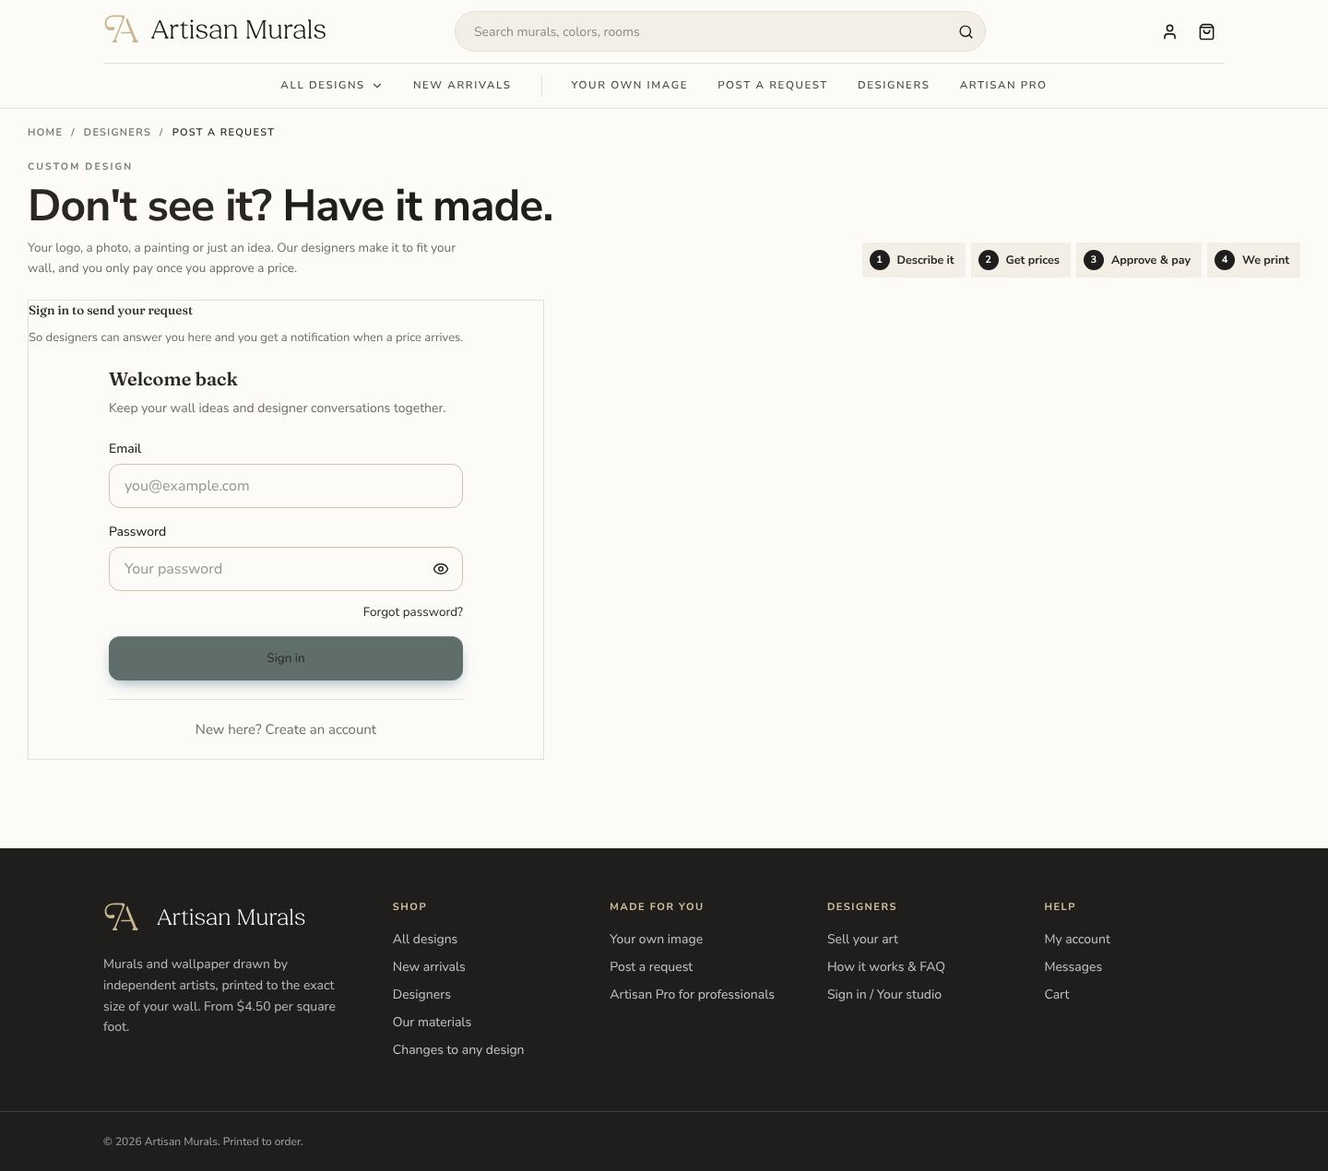
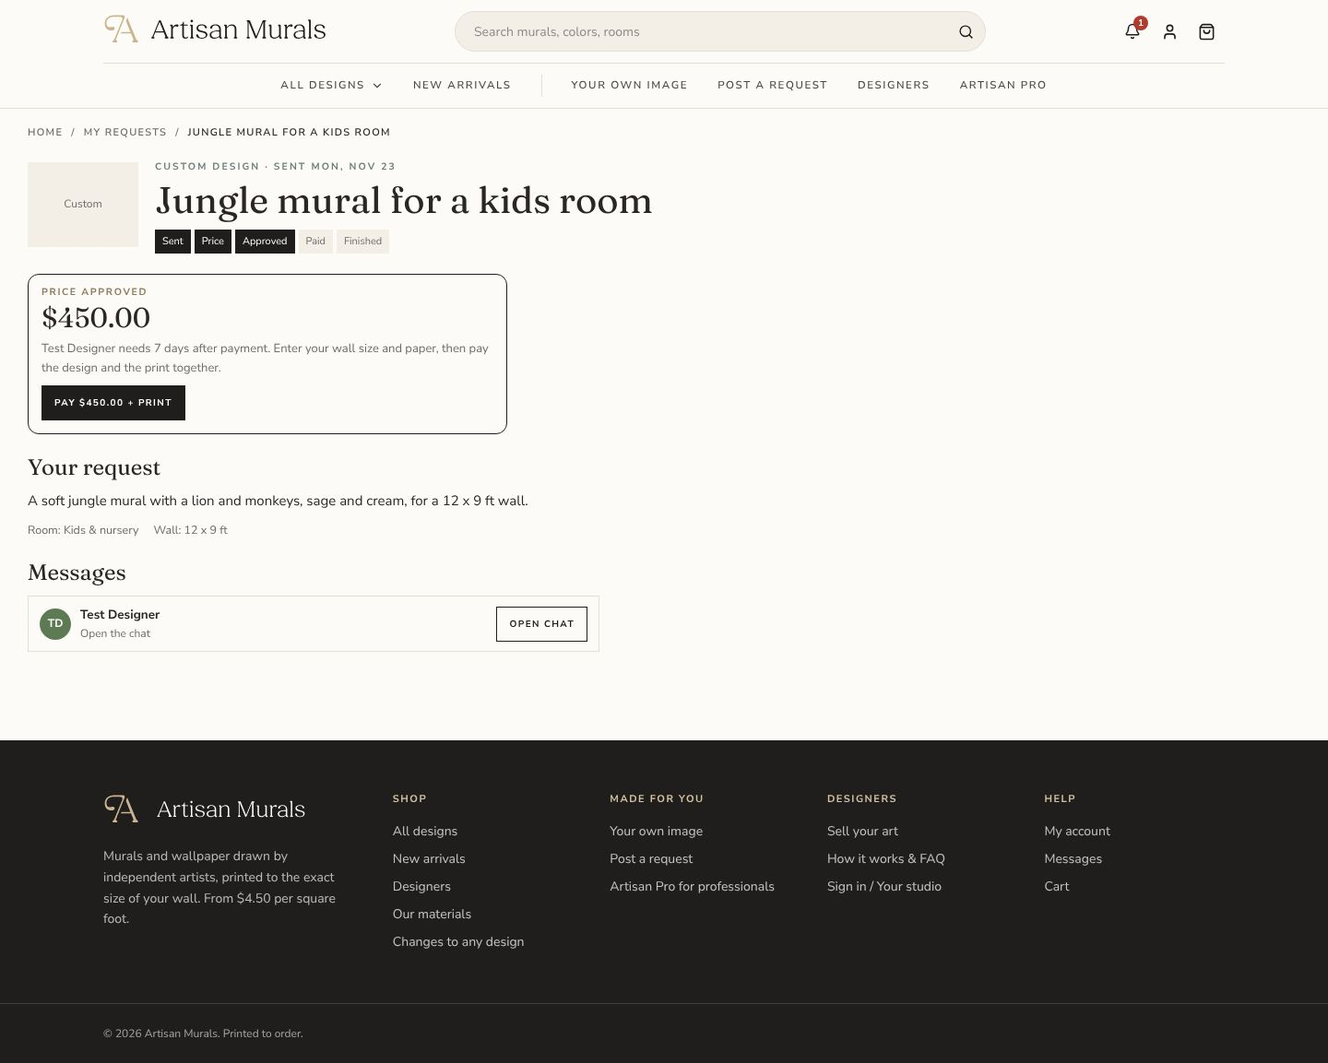
Gallery: designers, requests, pay, checkout, compare, how it works

diff --git a/real/index.html b/real/index.html
@@ -2,4 +2,4 @@
 <style>:root{--ink:#201D1D;--soft:#F3EFE7;--line:#E4DED3}body{margin:0;font:15px/1.5 system-ui,sans-serif;color:var(--ink);background:#FCFBF8}header{padding:28px 20px 10px;max-width:1300px;margin:auto}h1{font:400 34px/1.1 Georgia,serif;margin:0 0 6px}p{margin:0;color:#6F6A66}nav{display:flex;flex-wrap:wrap;gap:8px;margin-top:14px}nav a{border:1px solid var(--line);border-radius:999px;padding:6px 12px;color:var(--ink);text-decoration:none;font-size:13px;background:#fff}
 section{max-width:1300px;margin:26px auto;padding:0 20px}h2{font:400 24px Georgia,serif;margin:0 0 10px}.pair{display:grid;grid-template-columns:1fr 300px;gap:18px;align-items:start}figure{margin:0}figcaption{font-size:12px;font-weight:700;letter-spacing:.1em;text-transform:uppercase;color:#6F6A66;margin-bottom:6px}img{width:100%;border:1px solid var(--line);border-radius:8px;display:block}.ph img{max-height:none}
 @media(max-width:760px){.pair{grid-template-columns:1fr}.ph{max-width:320px}}</style></head><body>
-<header><h1>The new real site · progress</h1><p>Screenshots of the real website (not the preview), with real designs from the database. Tap any picture to open it full size.</p><nav><a href="#home">Homepage</a><a href="#shop">Shop with filters</a><a href="#design">Design page</a><a href="#size">Wall size & order</a><a href="#own">Your own image</a><a href="#request">Post a request</a><a href="#changes">Changes to a design</a><a href="#materials">Our materials</a><a href="#pro">Artisan Pro</a><a href="#sell">Sell your art</a><a href="#messages">Messages (chat)</a><a href="#account">My account</a><a href="#pro-apply">Artisan Pro application</a><a href="#designer-apply">Designer application</a><a href="#sign-in">Sign in</a><a href="#studio-upload">Designer studio · add a design (Drive picker)</a><a href="#studio-details">Designer studio · design details & my designs</a><a href="#bo-designs">Back office · all designs</a><a href="#bo-homepage">Back office · homepage & banners editor</a><a href="#bo-menu">Back office · menu pictures</a><a href="#bo-prices">Back office · prices & materials</a><a href="#bo-orders">Back office · orders</a><a href="#chat-price">Chat · price offer → approve → pay</a></nav></header><section id="home"><h2>Homepage</h2><div class="pair"><figure><figcaption>Computer</figcaption><a href="home-computer.jpg"><img src="home-computer.jpg" alt="Homepage on a computer" loading="lazy"></a></figure><figure class="ph"><figcaption>Phone</figcaption><a href="home-phone.jpg"><img src="home-phone.jpg" alt="Homepage on a phone" loading="lazy"></a></figure></div></section><section id="shop"><h2>Shop with filters</h2><div class="pair"><figure><figcaption>Computer</figcaption><a href="shop-computer.jpg"><img src="shop-computer.jpg" alt="Shop with filters on a computer" loading="lazy"></a></figure><figure class="ph"><figcaption>Phone</figcaption><a href="shop-phone.jpg"><img src="shop-phone.jpg" alt="Shop with filters on a phone" loading="lazy"></a></figure></div></section><section id="design"><h2>Design page</h2><div class="pair"><figure><figcaption>Computer</figcaption><a href="design-computer.jpg"><img src="design-computer.jpg" alt="Design page on a computer" loading="lazy"></a></figure><figure class="ph"><figcaption>Phone</figcaption><a href="design-phone.jpg"><img src="design-phone.jpg" alt="Design page on a phone" loading="lazy"></a></figure></div></section><section id="size"><h2>Wall size & order</h2><div class="pair"><figure><figcaption>Computer</figcaption><a href="size-computer.jpg"><img src="size-computer.jpg" alt="Wall size & order on a computer" loading="lazy"></a></figure><figure class="ph"><figcaption>Phone</figcaption><a href="size-phone.jpg"><img src="size-phone.jpg" alt="Wall size & order on a phone" loading="lazy"></a></figure></div></section><section id="own"><h2>Your own image</h2><div class="pair"><figure><figcaption>Computer</figcaption><a href="own-computer.jpg"><img src="own-computer.jpg" alt="Your own image on a computer" loading="lazy"></a></figure><figure class="ph"><figcaption>Phone</figcaption><a href="own-phone.jpg"><img src="own-phone.jpg" alt="Your own image on a phone" loading="lazy"></a></figure></div></section><section id="request"><h2>Post a request</h2><div class="pair"><figure><figcaption>Computer</figcaption><a href="request-computer.jpg"><img src="request-computer.jpg" alt="Post a request on a computer" loading="lazy"></a></figure><figure class="ph"><figcaption>Phone</figcaption><a href="request-phone.jpg"><img src="request-phone.jpg" alt="Post a request on a phone" loading="lazy"></a></figure></div></section><section id="changes"><h2>Changes to a design</h2><div class="pair"><figure><figcaption>Computer</figcaption><a href="changes-computer.jpg"><img src="changes-computer.jpg" alt="Changes to a design on a computer" loading="lazy"></a></figure><figure class="ph"><figcaption>Phone</figcaption><a href="changes-phone.jpg"><img src="changes-phone.jpg" alt="Changes to a design on a phone" loading="lazy"></a></figure></div></section><section id="materials"><h2>Our materials</h2><div class="pair"><figure><figcaption>Computer</figcaption><a href="materials-computer.jpg"><img src="materials-computer.jpg" alt="Our materials on a computer" loading="lazy"></a></figure><figure class="ph"><figcaption>Phone</figcaption><a href="materials-phone.jpg"><img src="materials-phone.jpg" alt="Our materials on a phone" loading="lazy"></a></figure></div></section><section id="pro"><h2>Artisan Pro</h2><div class="pair"><figure><figcaption>Computer</figcaption><a href="pro-computer.jpg"><img src="pro-computer.jpg" alt="Artisan Pro on a computer" loading="lazy"></a></figure><figure class="ph"><figcaption>Phone</figcaption><a href="pro-phone.jpg"><img src="pro-phone.jpg" alt="Artisan Pro on a phone" loading="lazy"></a></figure></div></section><section id="sell"><h2>Sell your art</h2><div class="pair"><figure><figcaption>Computer</figcaption><a href="sell-computer.jpg"><img src="sell-computer.jpg" alt="Sell your art on a computer" loading="lazy"></a></figure><figure class="ph"><figcaption>Phone</figcaption><a href="sell-phone.jpg"><img src="sell-phone.jpg" alt="Sell your art on a phone" loading="lazy"></a></figure></div></section><section id="messages"><h2>Messages (chat)</h2><div class="pair"><figure><figcaption>Computer</figcaption><a href="messages-computer.jpg"><img src="messages-computer.jpg" alt="Messages (chat) on a computer" loading="lazy"></a></figure><figure class="ph"><figcaption>Phone</figcaption><a href="messages-phone.jpg"><img src="messages-phone.jpg" alt="Messages (chat) on a phone" loading="lazy"></a></figure></div></section><section id="account"><h2>My account</h2><div class="pair"><figure><figcaption>Computer</figcaption><a href="account-computer.jpg"><img src="account-computer.jpg" alt="My account on a computer" loading="lazy"></a></figure><figure class="ph"><figcaption>Phone</figcaption><a href="account-phone.jpg"><img src="account-phone.jpg" alt="My account on a phone" loading="lazy"></a></figure></div></section><section id="pro-apply"><h2>Artisan Pro application</h2><div class="pair"><figure><figcaption>Computer</figcaption><a href="pro-apply-computer.jpg"><img src="pro-apply-computer.jpg" alt="Artisan Pro application on a computer" loading="lazy"></a></figure><figure class="ph"><figcaption>Phone</figcaption><a href="pro-apply-phone.jpg"><img src="pro-apply-phone.jpg" alt="Artisan Pro application on a phone" loading="lazy"></a></figure></div></section><section id="designer-apply"><h2>Designer application</h2><div class="pair"><figure><figcaption>Computer</figcaption><a href="designer-apply-computer.jpg"><img src="designer-apply-computer.jpg" alt="Designer application on a computer" loading="lazy"></a></figure><figure class="ph"><figcaption>Phone</figcaption><a href="designer-apply-phone.jpg"><img src="designer-apply-phone.jpg" alt="Designer application on a phone" loading="lazy"></a></figure></div></section><section id="sign-in"><h2>Sign in</h2><div class="pair"><figure><figcaption>Computer</figcaption><a href="sign-in-computer.jpg"><img src="sign-in-computer.jpg" alt="Sign in on a computer" loading="lazy"></a></figure><figure class="ph"><figcaption>Phone</figcaption><a href="sign-in-phone.jpg"><img src="sign-in-phone.jpg" alt="Sign in on a phone" loading="lazy"></a></figure></div></section><section id="studio-upload"><h2>Designer studio · add a design (Drive picker)</h2><div class="pair"><figure><figcaption>Computer</figcaption><a href="studio-upload-computer.jpg"><img src="studio-upload-computer.jpg" alt="Designer studio · add a design (Drive picker) on a computer" loading="lazy"></a></figure><figure class="ph"><figcaption>Phone</figcaption><a href="studio-upload-phone.jpg"><img src="studio-upload-phone.jpg" alt="Designer studio · add a design (Drive picker) on a phone" loading="lazy"></a></figure></div></section><section id="studio-details"><h2>Designer studio · design details & my designs</h2><div class="pair"><figure><figcaption>Computer</figcaption><a href="studio-details-computer.jpg"><img src="studio-details-computer.jpg" alt="Designer studio · design details & my designs on a computer" loading="lazy"></a></figure><figure class="ph"><figcaption>Phone</figcaption><a href="studio-designs-phone.jpg"><img src="studio-designs-phone.jpg" alt="Designer studio · design details & my designs on a phone" loading="lazy"></a></figure></div></section><section id="bo-designs"><h2>Back office · all designs</h2><div class="pair"><figure><figcaption>Computer</figcaption><a href="bo-designs-computer.jpg"><img src="bo-designs-computer.jpg" alt="Back office · all designs on a computer" loading="lazy"></a></figure><figure class="ph"><figcaption>Phone</figcaption><a href="bo-designs-phone.jpg"><img src="bo-designs-phone.jpg" alt="Back office · all designs on a phone" loading="lazy"></a></figure></div></section><section id="bo-homepage"><h2>Back office · homepage & banners editor</h2><figure><figcaption>Computer</figcaption><a href="bo-homepage-computer.jpg"><img src="bo-homepage-computer.jpg" alt="Back office · homepage & banners editor" loading="lazy"></a></figure></section><section id="bo-menu"><h2>Back office · menu pictures</h2><figure><figcaption>Computer</figcaption><a href="bo-menu-computer.jpg"><img src="bo-menu-computer.jpg" alt="Back office · menu pictures" loading="lazy"></a></figure></section><section id="bo-prices"><h2>Back office · prices & materials</h2><figure><figcaption>Computer</figcaption><a href="bo-prices-computer.jpg"><img src="bo-prices-computer.jpg" alt="Back office · prices & materials" loading="lazy"></a></figure></section><section id="bo-orders"><h2>Back office · orders</h2><figure><figcaption>Computer</figcaption><a href="bo-orders-computer.jpg"><img src="bo-orders-computer.jpg" alt="Back office · orders" loading="lazy"></a></figure></section><section id="chat-price"><h2>Chat · price offer → approve → pay</h2><div class="pair" style="grid-template-columns:1fr 1fr"><figure><figcaption>1 · The designer sent a price</figcaption><a href="chat-price-offer.jpg"><img src="chat-price-offer.jpg" alt="Price offer in the chat" loading="lazy"></a></figure><figure><figcaption>2 · Approved: pay button</figcaption><a href="chat-price-pay.jpg"><img src="chat-price-pay.jpg" alt="Pay button after approving" loading="lazy"></a></figure></div></section></body></html>
+<header><h1>The new real site · progress</h1><p>Screenshots of the real website (not the preview), with real designs from the database. Tap any picture to open it full size.</p><nav><a href="#home">Homepage</a><a href="#shop">Shop with filters</a><a href="#design">Design page</a><a href="#size">Wall size & order</a><a href="#own">Your own image</a><a href="#request">Post a request</a><a href="#changes">Changes to a design</a><a href="#materials">Our materials</a><a href="#pro">Artisan Pro</a><a href="#sell">Sell your art</a><a href="#messages">Messages (chat)</a><a href="#account">My account</a><a href="#pro-apply">Artisan Pro application</a><a href="#designer-apply">Designer application</a><a href="#sign-in">Sign in</a><a href="#studio-upload">Designer studio · add a design (Drive picker)</a><a href="#studio-details">Designer studio · design details & my designs</a><a href="#bo-designs">Back office · all designs</a><a href="#bo-homepage">Back office · homepage & banners editor</a><a href="#bo-menu">Back office · menu pictures</a><a href="#bo-prices">Back office · prices & materials</a><a href="#bo-orders">Back office · orders</a><a href="#chat-price">Chat · price offer → approve → pay</a><a href="#designers">Designers</a><a href="#designer-page">A designer's page</a><a href="#my-requests">My requests</a><a href="#pay">Pay: wall size, paper, payment</a><a href="#checkout">Checkout</a><a href="#compare">Compare</a><a href="#how-it-works">How it works for designers</a></nav></header><section id="home"><h2>Homepage</h2><div class="pair"><figure><figcaption>Computer</figcaption><a href="home-computer.jpg"><img src="home-computer.jpg" alt="Homepage on a computer" loading="lazy"></a></figure><figure class="ph"><figcaption>Phone</figcaption><a href="home-phone.jpg"><img src="home-phone.jpg" alt="Homepage on a phone" loading="lazy"></a></figure></div></section><section id="shop"><h2>Shop with filters</h2><div class="pair"><figure><figcaption>Computer</figcaption><a href="shop-computer.jpg"><img src="shop-computer.jpg" alt="Shop with filters on a computer" loading="lazy"></a></figure><figure class="ph"><figcaption>Phone</figcaption><a href="shop-phone.jpg"><img src="shop-phone.jpg" alt="Shop with filters on a phone" loading="lazy"></a></figure></div></section><section id="design"><h2>Design page</h2><div class="pair"><figure><figcaption>Computer</figcaption><a href="design-computer.jpg"><img src="design-computer.jpg" alt="Design page on a computer" loading="lazy"></a></figure><figure class="ph"><figcaption>Phone</figcaption><a href="design-phone.jpg"><img src="design-phone.jpg" alt="Design page on a phone" loading="lazy"></a></figure></div></section><section id="size"><h2>Wall size & order</h2><div class="pair"><figure><figcaption>Computer</figcaption><a href="size-computer.jpg"><img src="size-computer.jpg" alt="Wall size & order on a computer" loading="lazy"></a></figure><figure class="ph"><figcaption>Phone</figcaption><a href="size-phone.jpg"><img src="size-phone.jpg" alt="Wall size & order on a phone" loading="lazy"></a></figure></div></section><section id="own"><h2>Your own image</h2><div class="pair"><figure><figcaption>Computer</figcaption><a href="own-computer.jpg"><img src="own-computer.jpg" alt="Your own image on a computer" loading="lazy"></a></figure><figure class="ph"><figcaption>Phone</figcaption><a href="own-phone.jpg"><img src="own-phone.jpg" alt="Your own image on a phone" loading="lazy"></a></figure></div></section><section id="request"><h2>Post a request</h2><div class="pair"><figure><figcaption>Computer</figcaption><a href="request-computer.jpg"><img src="request-computer.jpg" alt="Post a request on a computer" loading="lazy"></a></figure><figure class="ph"><figcaption>Phone</figcaption><a href="request-phone.jpg"><img src="request-phone.jpg" alt="Post a request on a phone" loading="lazy"></a></figure></div></section><section id="changes"><h2>Changes to a design</h2><div class="pair"><figure><figcaption>Computer</figcaption><a href="changes-computer.jpg"><img src="changes-computer.jpg" alt="Changes to a design on a computer" loading="lazy"></a></figure><figure class="ph"><figcaption>Phone</figcaption><a href="changes-phone.jpg"><img src="changes-phone.jpg" alt="Changes to a design on a phone" loading="lazy"></a></figure></div></section><section id="materials"><h2>Our materials</h2><div class="pair"><figure><figcaption>Computer</figcaption><a href="materials-computer.jpg"><img src="materials-computer.jpg" alt="Our materials on a computer" loading="lazy"></a></figure><figure class="ph"><figcaption>Phone</figcaption><a href="materials-phone.jpg"><img src="materials-phone.jpg" alt="Our materials on a phone" loading="lazy"></a></figure></div></section><section id="pro"><h2>Artisan Pro</h2><div class="pair"><figure><figcaption>Computer</figcaption><a href="pro-computer.jpg"><img src="pro-computer.jpg" alt="Artisan Pro on a computer" loading="lazy"></a></figure><figure class="ph"><figcaption>Phone</figcaption><a href="pro-phone.jpg"><img src="pro-phone.jpg" alt="Artisan Pro on a phone" loading="lazy"></a></figure></div></section><section id="sell"><h2>Sell your art</h2><div class="pair"><figure><figcaption>Computer</figcaption><a href="sell-computer.jpg"><img src="sell-computer.jpg" alt="Sell your art on a computer" loading="lazy"></a></figure><figure class="ph"><figcaption>Phone</figcaption><a href="sell-phone.jpg"><img src="sell-phone.jpg" alt="Sell your art on a phone" loading="lazy"></a></figure></div></section><section id="messages"><h2>Messages (chat)</h2><div class="pair"><figure><figcaption>Computer</figcaption><a href="messages-computer.jpg"><img src="messages-computer.jpg" alt="Messages (chat) on a computer" loading="lazy"></a></figure><figure class="ph"><figcaption>Phone</figcaption><a href="messages-phone.jpg"><img src="messages-phone.jpg" alt="Messages (chat) on a phone" loading="lazy"></a></figure></div></section><section id="account"><h2>My account</h2><div class="pair"><figure><figcaption>Computer</figcaption><a href="account-computer.jpg"><img src="account-computer.jpg" alt="My account on a computer" loading="lazy"></a></figure><figure class="ph"><figcaption>Phone</figcaption><a href="account-phone.jpg"><img src="account-phone.jpg" alt="My account on a phone" loading="lazy"></a></figure></div></section><section id="pro-apply"><h2>Artisan Pro application</h2><div class="pair"><figure><figcaption>Computer</figcaption><a href="pro-apply-computer.jpg"><img src="pro-apply-computer.jpg" alt="Artisan Pro application on a computer" loading="lazy"></a></figure><figure class="ph"><figcaption>Phone</figcaption><a href="pro-apply-phone.jpg"><img src="pro-apply-phone.jpg" alt="Artisan Pro application on a phone" loading="lazy"></a></figure></div></section><section id="designer-apply"><h2>Designer application</h2><div class="pair"><figure><figcaption>Computer</figcaption><a href="designer-apply-computer.jpg"><img src="designer-apply-computer.jpg" alt="Designer application on a computer" loading="lazy"></a></figure><figure class="ph"><figcaption>Phone</figcaption><a href="designer-apply-phone.jpg"><img src="designer-apply-phone.jpg" alt="Designer application on a phone" loading="lazy"></a></figure></div></section><section id="sign-in"><h2>Sign in</h2><div class="pair"><figure><figcaption>Computer</figcaption><a href="sign-in-computer.jpg"><img src="sign-in-computer.jpg" alt="Sign in on a computer" loading="lazy"></a></figure><figure class="ph"><figcaption>Phone</figcaption><a href="sign-in-phone.jpg"><img src="sign-in-phone.jpg" alt="Sign in on a phone" loading="lazy"></a></figure></div></section><section id="studio-upload"><h2>Designer studio · add a design (Drive picker)</h2><div class="pair"><figure><figcaption>Computer</figcaption><a href="studio-upload-computer.jpg"><img src="studio-upload-computer.jpg" alt="Designer studio · add a design (Drive picker) on a computer" loading="lazy"></a></figure><figure class="ph"><figcaption>Phone</figcaption><a href="studio-upload-phone.jpg"><img src="studio-upload-phone.jpg" alt="Designer studio · add a design (Drive picker) on a phone" loading="lazy"></a></figure></div></section><section id="studio-details"><h2>Designer studio · design details & my designs</h2><div class="pair"><figure><figcaption>Computer</figcaption><a href="studio-details-computer.jpg"><img src="studio-details-computer.jpg" alt="Designer studio · design details & my designs on a computer" loading="lazy"></a></figure><figure class="ph"><figcaption>Phone</figcaption><a href="studio-designs-phone.jpg"><img src="studio-designs-phone.jpg" alt="Designer studio · design details & my designs on a phone" loading="lazy"></a></figure></div></section><section id="bo-designs"><h2>Back office · all designs</h2><div class="pair"><figure><figcaption>Computer</figcaption><a href="bo-designs-computer.jpg"><img src="bo-designs-computer.jpg" alt="Back office · all designs on a computer" loading="lazy"></a></figure><figure class="ph"><figcaption>Phone</figcaption><a href="bo-designs-phone.jpg"><img src="bo-designs-phone.jpg" alt="Back office · all designs on a phone" loading="lazy"></a></figure></div></section><section id="bo-homepage"><h2>Back office · homepage & banners editor</h2><figure><figcaption>Computer</figcaption><a href="bo-homepage-computer.jpg"><img src="bo-homepage-computer.jpg" alt="Back office · homepage & banners editor" loading="lazy"></a></figure></section><section id="bo-menu"><h2>Back office · menu pictures</h2><figure><figcaption>Computer</figcaption><a href="bo-menu-computer.jpg"><img src="bo-menu-computer.jpg" alt="Back office · menu pictures" loading="lazy"></a></figure></section><section id="bo-prices"><h2>Back office · prices & materials</h2><figure><figcaption>Computer</figcaption><a href="bo-prices-computer.jpg"><img src="bo-prices-computer.jpg" alt="Back office · prices & materials" loading="lazy"></a></figure></section><section id="bo-orders"><h2>Back office · orders</h2><figure><figcaption>Computer</figcaption><a href="bo-orders-computer.jpg"><img src="bo-orders-computer.jpg" alt="Back office · orders" loading="lazy"></a></figure></section><section id="chat-price"><h2>Chat · price offer → approve → pay</h2><div class="pair" style="grid-template-columns:1fr 1fr"><figure><figcaption>1 · The designer sent a price</figcaption><a href="chat-price-offer.jpg"><img src="chat-price-offer.jpg" alt="Price offer in the chat" loading="lazy"></a></figure><figure><figcaption>2 · Approved: pay button</figcaption><a href="chat-price-pay.jpg"><img src="chat-price-pay.jpg" alt="Pay button after approving" loading="lazy"></a></figure></div></section><section id="designers"><h2>Designers</h2><div class="pair"><figure><figcaption>Computer</figcaption><a href="designers-computer.jpg"><img src="designers-computer.jpg" alt="Designers on a computer" loading="lazy"></a></figure><figure class="ph"><figcaption>Phone</figcaption><a href="designers-phone.jpg"><img src="designers-phone.jpg" alt="Designers on a phone" loading="lazy"></a></figure></div></section><section id="designer-page"><h2>A designer's page</h2><div class="pair"><figure><figcaption>Computer</figcaption><a href="designer-page-computer.jpg"><img src="designer-page-computer.jpg" alt="A designer's page on a computer" loading="lazy"></a></figure><figure class="ph"><figcaption>Phone</figcaption><a href="designer-page-phone.jpg"><img src="designer-page-phone.jpg" alt="A designer's page on a phone" loading="lazy"></a></figure></div></section><section id="my-requests"><h2>My requests</h2><div class="pair"><figure><figcaption>Computer</figcaption><a href="my-requests-computer.jpg"><img src="my-requests-computer.jpg" alt="My requests on a computer" loading="lazy"></a></figure><figure class="ph"><figcaption>Phone</figcaption><a href="my-requests-phone.jpg"><img src="my-requests-phone.jpg" alt="My requests on a phone" loading="lazy"></a></figure></div></section><section id="pay"><h2>Pay: wall size, paper, payment</h2><div class="pair"><figure><figcaption>Computer</figcaption><a href="pay-computer.jpg"><img src="pay-computer.jpg" alt="Pay: wall size, paper, payment on a computer" loading="lazy"></a></figure><figure class="ph"><figcaption>Phone</figcaption><a href="pay-phone.jpg"><img src="pay-phone.jpg" alt="Pay: wall size, paper, payment on a phone" loading="lazy"></a></figure></div></section><section id="checkout"><h2>Checkout</h2><div class="pair"><figure><figcaption>Computer</figcaption><a href="checkout-computer.jpg"><img src="checkout-computer.jpg" alt="Checkout on a computer" loading="lazy"></a></figure><figure class="ph"><figcaption>Phone</figcaption><a href="checkout-phone.jpg"><img src="checkout-phone.jpg" alt="Checkout on a phone" loading="lazy"></a></figure></div></section><section id="compare"><h2>Compare</h2><div class="pair"><figure><figcaption>Computer</figcaption><a href="compare-computer.jpg"><img src="compare-computer.jpg" alt="Compare on a computer" loading="lazy"></a></figure><figure class="ph"><figcaption>Phone</figcaption><a href="compare-phone.jpg"><img src="compare-phone.jpg" alt="Compare on a phone" loading="lazy"></a></figure></div></section><section id="how-it-works"><h2>How it works for designers</h2><div class="pair"><figure><figcaption>Computer</figcaption><a href="how-it-works-computer.jpg"><img src="how-it-works-computer.jpg" alt="How it works for designers on a computer" loading="lazy"></a></figure><figure class="ph"><figcaption>Phone</figcaption><a href="how-it-works-phone.jpg"><img src="how-it-works-phone.jpg" alt="How it works for designers on a phone" loading="lazy"></a></figure></div></section></body></html>
